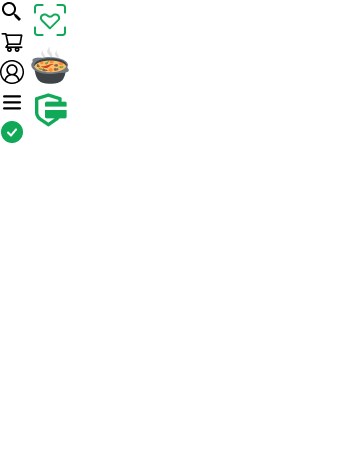
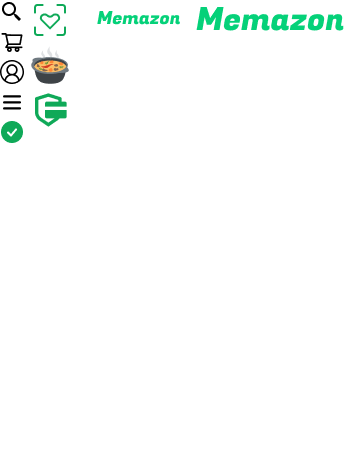
style: fonts change

Changed region(s): [[0.5429, 0.0, 1.0, 0.0933], [0.2571, 0.0, 0.5143, 0.0622]]

diff --git a/src/styles/sass/pages/_login.scss b/src/styles/sass/pages/_login.scss
@@ -3,15 +3,9 @@
 
 .signIn {
   width: 35%;
-  margin: 1rem auto;
+  margin: 2.5rem auto;
   position: relative;
   padding: 0rem 2rem;
-
-  .brand-logo {
-    font-size: 2rem;
-    text-align: center;
-    display: block;
-  }
 
   > div {
     margin-top: 0.5rem;
@@ -94,7 +88,7 @@
   }
 }
 
-@media (max-width: $medium-screens) {
+@media (min-width: $small-screens) and (max-width: $medium-screens) {
   .signIn {
     width: 60%;
   }
@@ -103,5 +97,6 @@
 @media (max-width: $small-screens) {
   .signIn {
     width: 80%;
+    padding: 0;
   }
 }

diff --git a/src/styles/sass/layout/_navigation.scss b/src/styles/sass/layout/_navigation.scss
@@ -24,10 +24,15 @@ nav {
   }
 }
 .brand-logo {
-  font-family: $logo-font;
-  font-weight: $bold-font-weight;
-  color: $color-primary;
-  font-size: 1.3rem;
+  // font-family: $logo-font;
+  // font-weight: $bold-font-weight;
+  // color: $color-primary;
+  font-size: 0;
+  width: 6rem;
+  height: 2rem;
+  background-image: url("/images/iconcollection/allicons.png");
+  background-position: -90px -5px;
+  background-repeat: no-repeat;
 }
 
 .nav-icons {

diff --git a/index.html b/index.html
@@ -36,7 +36,7 @@
     -->
 
     <link
-      href="https://fonts.googleapis.com/css2?family=Asap:wght@700&family=Handlee&text=Memazon&family=Inter:wght@500&family=Roboto+Slab:wght@600&display=swap"
+      href="https://fonts.googleapis.com/css2?family=Asap:wght@700&family=Roboto+Slab:wght@600&display=swap"
       rel="stylesheet"
     />
 

diff --git a/src/pages/login/login.tsx b/src/pages/login/login.tsx
@@ -83,10 +83,6 @@ function Login() {
 
   return (
     <div className="signIn">
-      {}
-      <a href="#" className="brand-logo">
-        RajFoods
-      </a>
       <form className="signIn-form" onSubmit={handleSubmit}>
         <h2>Sign-In</h2>
         <div className="input-wrapper">

diff --git a/src/styles/sass/abstracts/_fonts.scss b/src/styles/sass/abstracts/_fonts.scss
@@ -1,4 +1,4 @@
-$primary-font: "Inter", sans-serif;
+$primary-font: "Roboto Slab", sans-serif;
 $logo-font: "Handlee", cursive;
 $heading-font: "Asap", sans-serif;
 $roboto-font: "Roboto Slab", serif;
